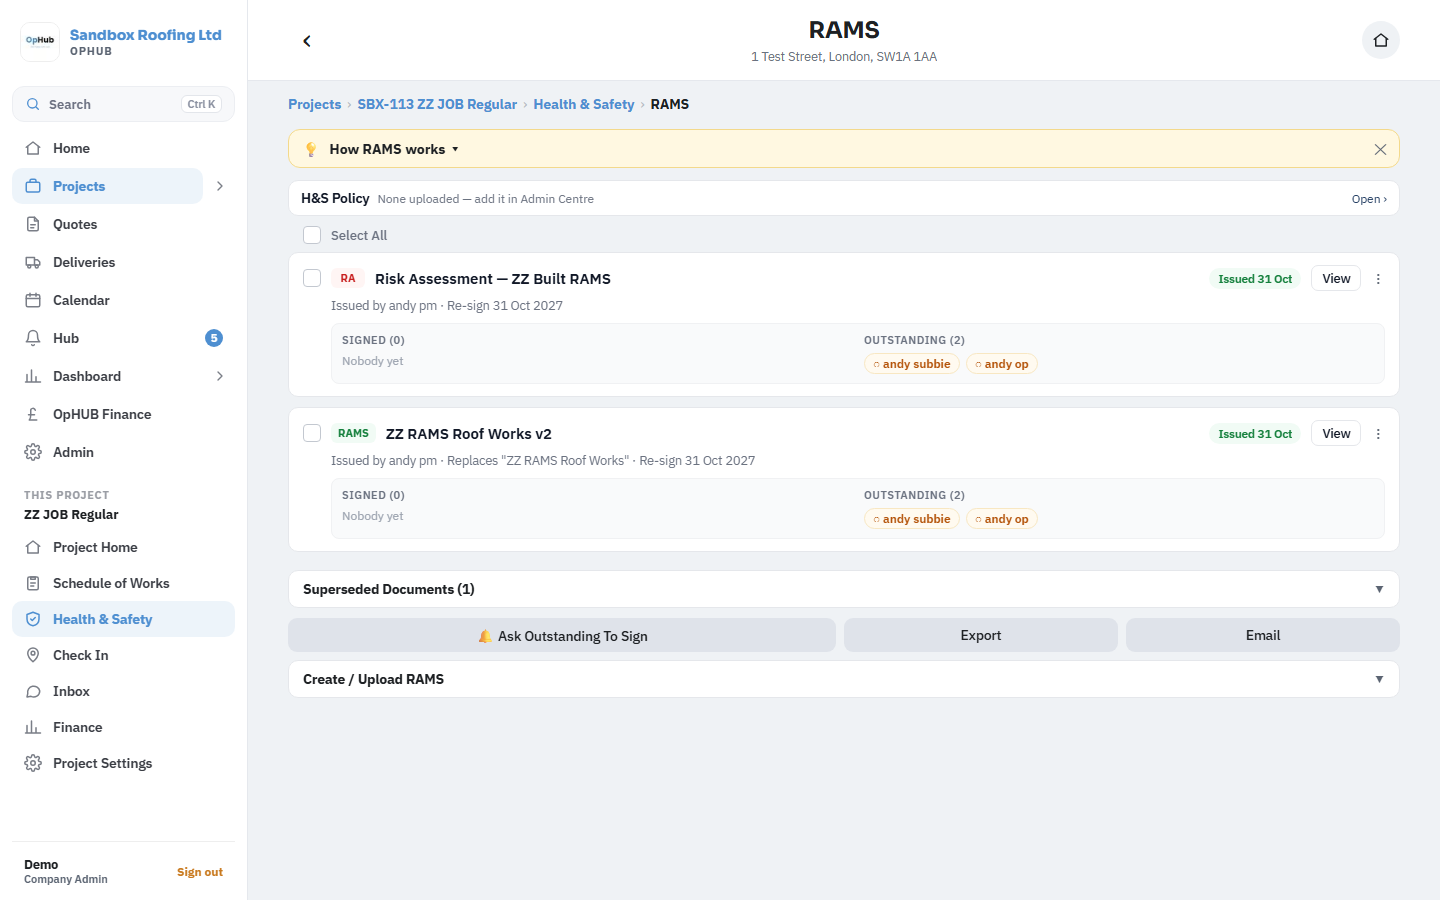
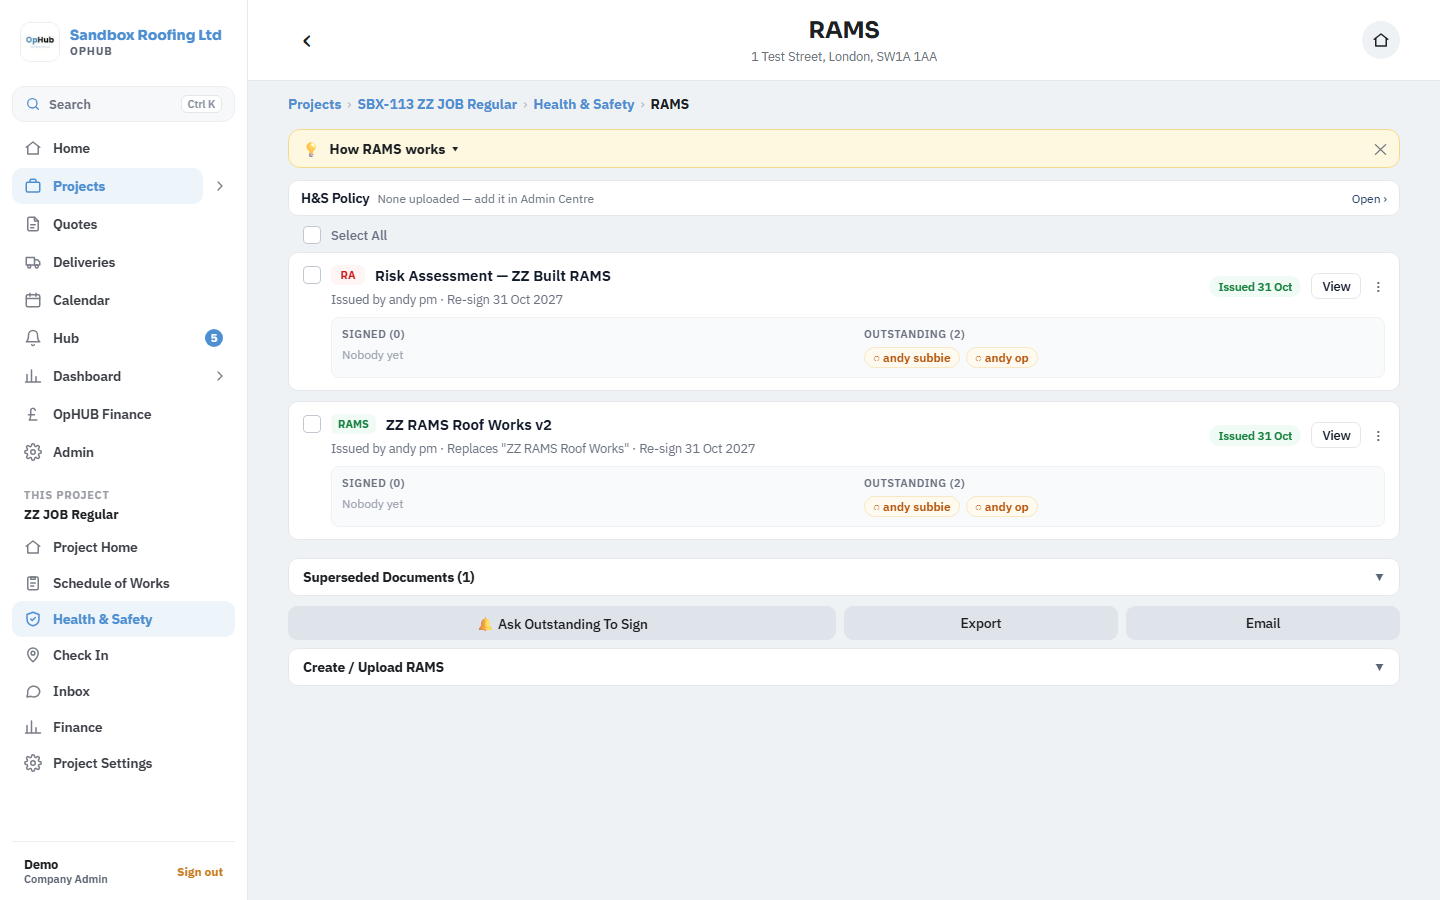
RAMS / COSHH rows: the Issued status, View and menu sit on the right, centred on the title and the Issued By line; on a phone the status sits above View and the menu so the title has room.
Claude-Session: https://claude.ai/code/session_012KhfNvBEbifMJmPdX7yZfp

diff --git a/app-native/src/components/HsDocList.tsx b/app-native/src/components/HsDocList.tsx
@@ -11,7 +11,7 @@ import { router } from 'expo-router';
 import { testFill } from '@/data/signTemplates';
 import { supabase } from '@/lib/supabase';
 import { useState, type ReactNode } from 'react';
-import { Pressable, Text, View } from 'react-native';
+import { Pressable, Text, useWindowDimensions, View } from 'react-native';
 
 import { ClientSignLines } from '@/components/ClientSignLines';
 import { promptEmail } from '@/components/EmailPrompt';
@@ -118,6 +118,7 @@ export function HsDocList({ kind, site, companyId = null, canManage }: { kind: D
   const [busy, setBusy] = useState(false);
   const [supOpen, setSupOpen] = useState(false);
   const [sel, setSel] = useState<Set<string>>(new Set());
+  const narrow = useWindowDimensions().width < 700;
   if (!me) return null;
   const manager = canManage ?? isManager(me);
   const client = me.role === 'client';
@@ -213,12 +214,26 @@ export function HsDocList({ kind, site, companyId = null, canManage }: { kind: D
         const canTap = !client && !(manager && (issued.length || mine)) && !(kind !== 'rams' && manager);
         return (
           <Card key={r.id} style={{ paddingVertical: 12, paddingHorizontal: 14 }}>
+            {/* View and the menu sit to the right, centred on the title and the line under it (Andy, 3 Nov 2026). */}
+            <View style={{ flexDirection: 'row', alignItems: 'center', gap: 10 }}>
+            <View style={{ flex: 1, minWidth: 0 }}>
             <View style={{ flexDirection: 'row', alignItems: 'center', gap: 10 }}>
               {manager && kind !== 'layout' && <Pressable hitSlop={8} accessibilityRole="checkbox" accessibilityState={{ checked: sel.has(r.id) }} onPress={() => setSel((x) => { const n = new Set(x); if (n.has(r.id)) n.delete(r.id); else n.add(r.id); return n; })}
                 style={{ width: 18, height: 18, borderRadius: 4, borderWidth: 1.5, borderColor: sel.has(r.id) ? base.blue : '#c3c8d0', backgroundColor: sel.has(r.id) ? base.blue : '#fff', alignItems: 'center', justifyContent: 'center' }}>{sel.has(r.id) && <Text style={{ color: '#fff', fontSize: 12, fontWeight: '700', lineHeight: 14 }}>✓</Text>}</Pressable>}
               <DocBadge kind={kind} type={r.doc_type} />
               <Text numberOfLines={2} style={{ flex: 1, fontSize: 15, fontWeight: '600', color: '#111827' }}>{docTitle(r.name, site.name)}</Text>
+            </View>
+            <View style={{ flexDirection: 'row', alignItems: 'center', gap: 10, marginTop: 6, paddingLeft: manager && kind !== 'layout' ? 28 : 0 }}>
+              <Text numberOfLines={2} style={{ flex: 1, fontSize: 12.5, color: '#6b7280' }}>
+                {issued.length ? `Issued by ${issued.map((x) => nameOf(people, x.user_id)).join(', ')}` : `Uploaded by ${nameOf(people, r.uploaded_by)} · ${d(r.uploaded_at)}`}
+                {r.supersedes ? ` · Replaces "${nameById[r.supersedes] || 'an earlier version'}"` : ''}
+                {due ? ` · Re-sign ${due.toLocaleDateString('en-GB', { day: '2-digit', month: 'short', year: 'numeric' })}` : ''}
+              </Text>
+            </View>
+            </View>
+              <View style={narrow ? { alignItems: 'flex-end', gap: 6 } : { flexDirection: 'row', alignItems: 'center', gap: 10 }}>
               <StatusPill text={issued.length ? `Issued ${d(issued[0].signed_at)}` : kind === 'coshh' && r.uploaded_at && !data.roster.length ? `Issued ${d(r.uploaded_at)}` : data.roster.length ? `${signed.length} of ${data.roster.length} Signed` : 'Not Issued'} tone={issued.length || (kind === 'coshh' && !data.roster.length) || (data.roster.length && !waiting.length) ? 'ok' : waiting.length ? 'warn' : 'grey'} />
+              <View style={{ flexDirection: 'row', alignItems: 'center', gap: 10 }}>
               <Pressable onPress={() => view(r)} hitSlop={6} style={{ borderWidth: 1, borderColor: '#e5e7eb', borderRadius: 7, paddingHorizontal: 10, height: 26, justifyContent: 'center' }}><Text style={{ color: '#111827', fontSize: 12.5, fontWeight: '500' }}>View</Text></Pressable>
               {manager && (
                 <Pressable hitSlop={8} onPress={async () => {
@@ -268,13 +283,8 @@ export function HsDocList({ kind, site, companyId = null, canManage }: { kind: D
                   }
                 }} style={{ height: 26, justifyContent: 'center' }}><Text style={{ fontSize: 18, lineHeight: 20, color: base.slate, paddingHorizontal: 4 }}>⋮</Text></Pressable>
               )}
-            </View>
-            <View style={{ flexDirection: 'row', alignItems: 'center', gap: 10, marginTop: 6, paddingLeft: manager && kind !== 'layout' ? 28 : 0 }}>
-              <Text numberOfLines={2} style={{ flex: 1, fontSize: 12.5, color: '#6b7280' }}>
-                {issued.length ? `Issued by ${issued.map((x) => nameOf(people, x.user_id)).join(', ')}` : `Uploaded by ${nameOf(people, r.uploaded_by)} · ${d(r.uploaded_at)}`}
-                {r.supersedes ? ` · Replaces "${nameById[r.supersedes] || 'an earlier version'}"` : ''}
-                {due ? ` · Re-sign ${due.toLocaleDateString('en-GB', { day: '2-digit', month: 'short', year: 'numeric' })}` : ''}
-              </Text>
+              </View>
+              </View>
             </View>
             {canTap && (
               <Pressable disabled={!!mine || busy} onPress={() => sign([r.id])}
